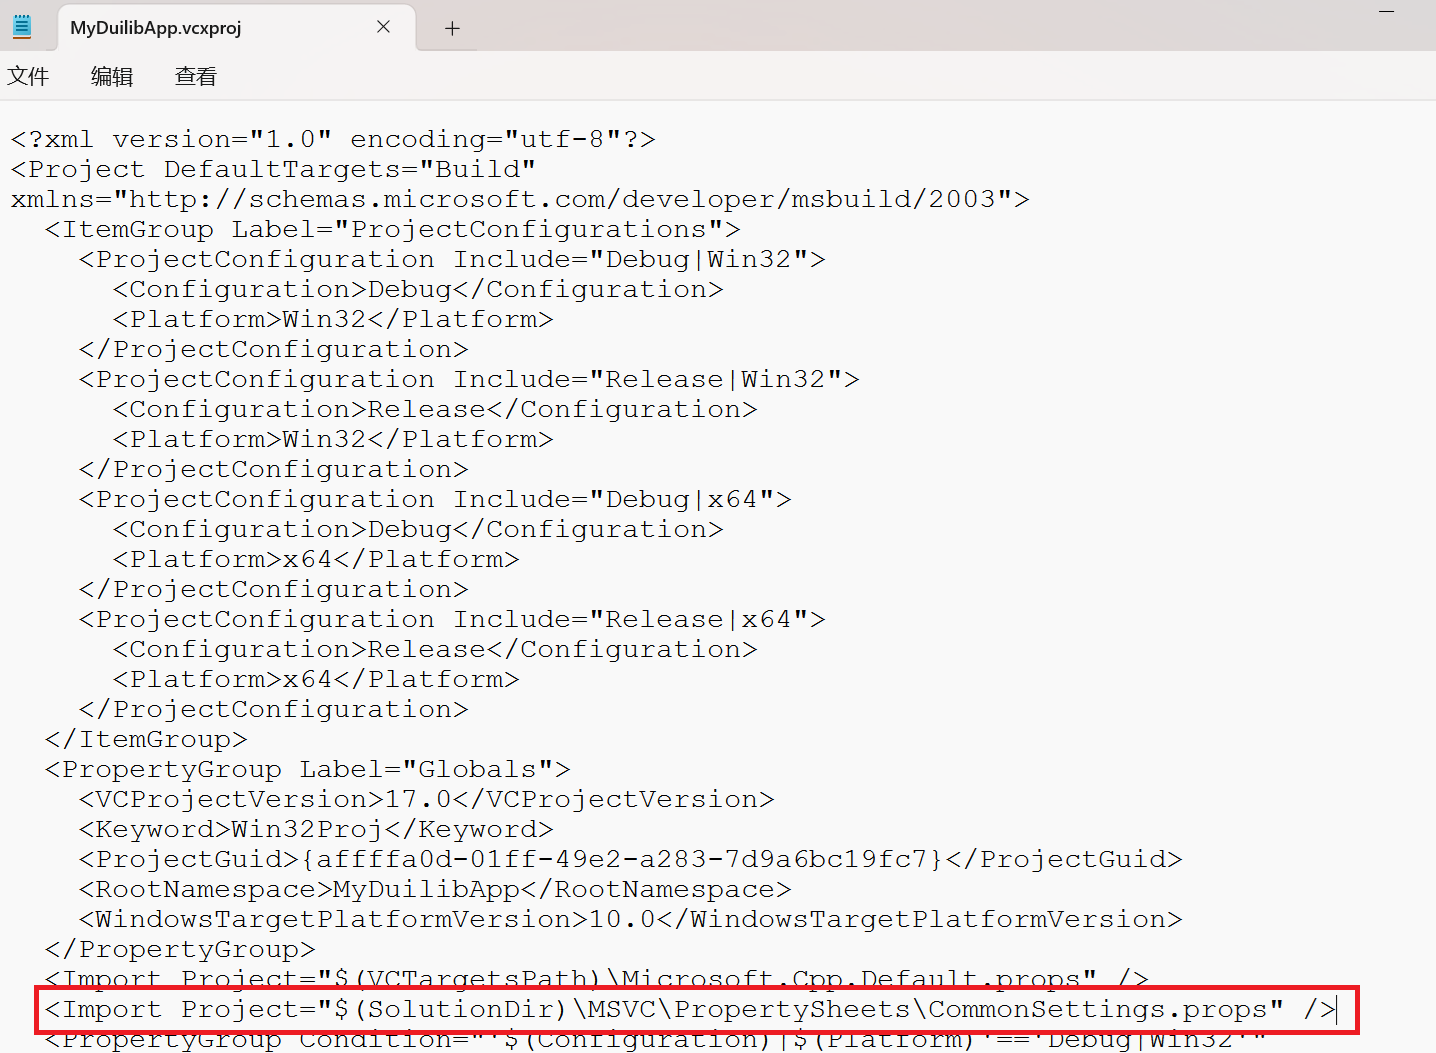
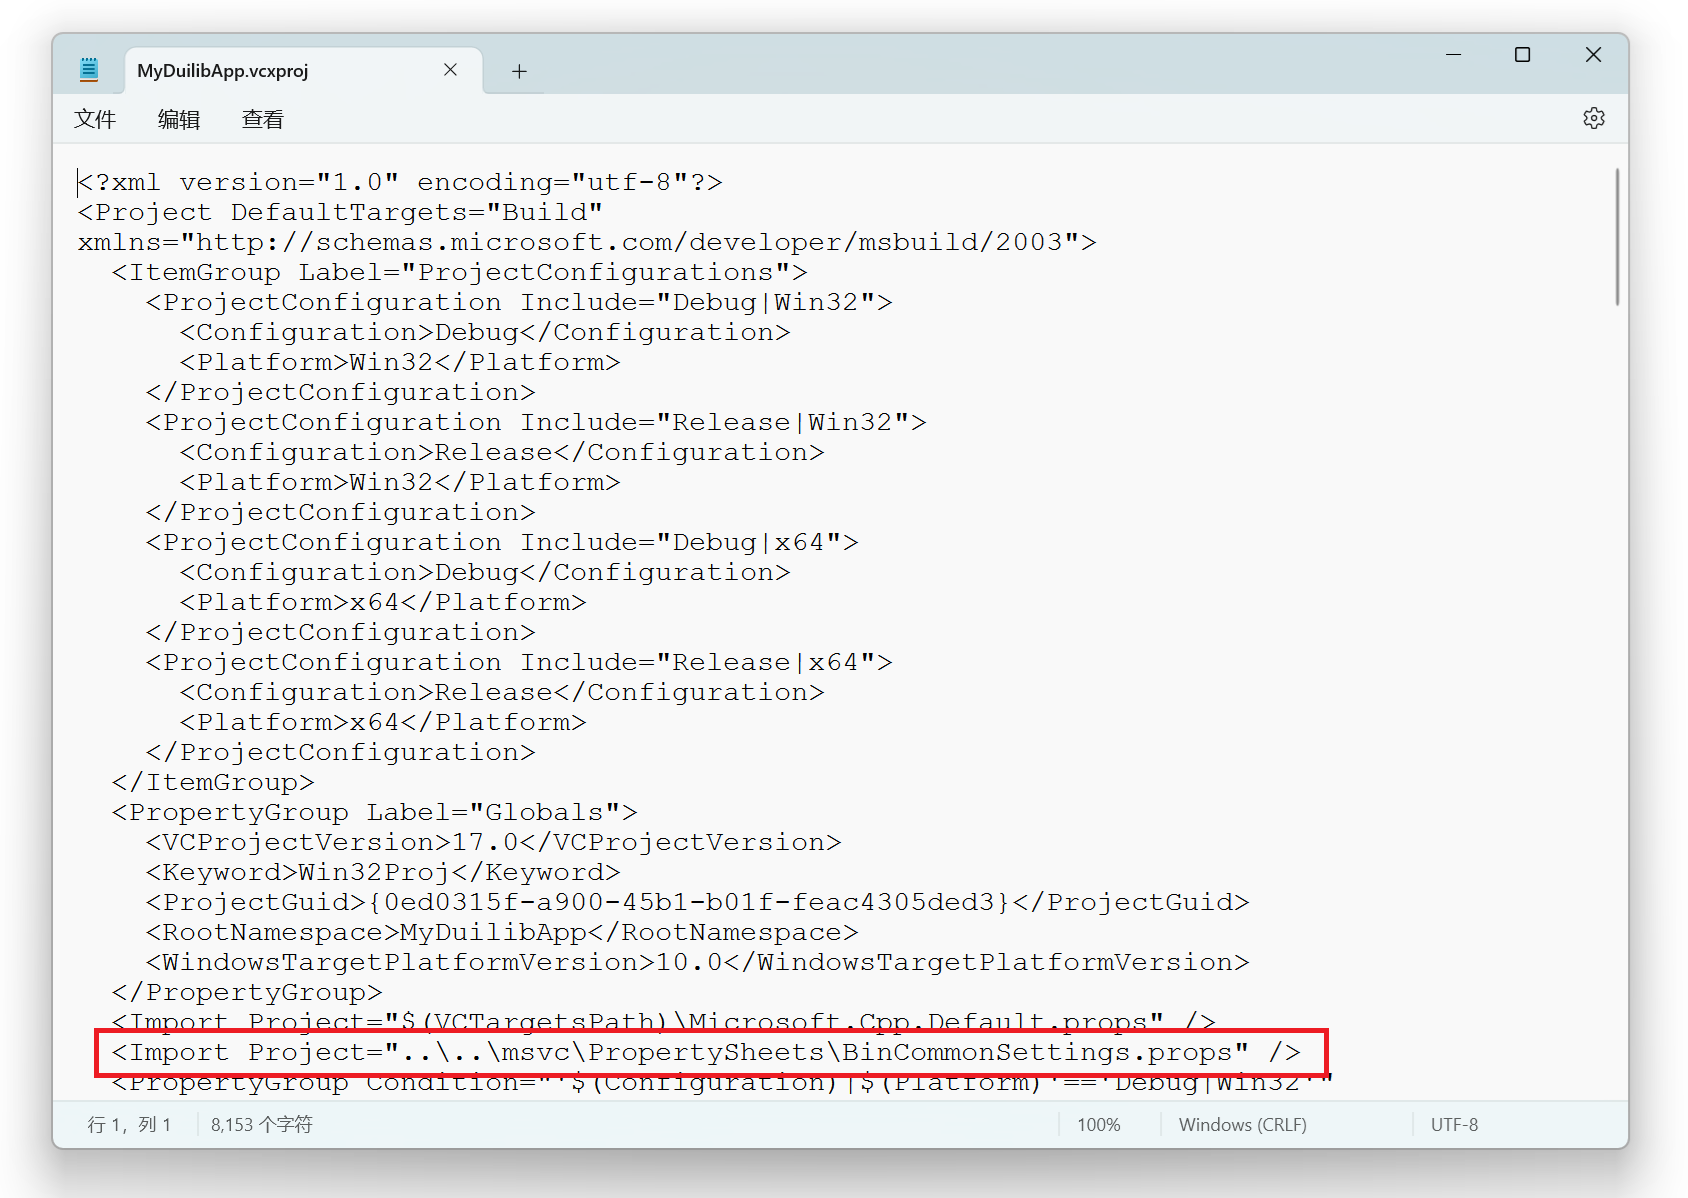
完善编译系统，完善项目的文档。

Changed region(s): [[0.0, 0.0, 1.0, 1.0]]

diff --git a/docs/Menu.md b/docs/Menu.md
@@ -7,24 +7,24 @@
 3. `settings_menu.xml`中的主要内容：
 ```xml
 <?xml version="1.0" encoding="utf-8"?>
-<Window>
-    <VListBox class="menu">
+<Window shadow_type="menu_round" shadow_attached="true" layered_window="true" >
+    <MenuListBox class="menu" name="main_menu">
         <!-- 一级菜单 -->
         <MenuItem class="menu_element" name="first" width="180">
-          <Button name="button_01" width="auto" height="auto" bkimage="menu_settings.png" valign="center" mouse="false"/>
-          <Label class="menu_text" text="一级菜单项 1" margin="30,0,0,0"/>
+          <Button name="button_01" width="auto" height="auto" bkimage="menu_settings.png" valign="center" mouse_enabled="false" keyboard_enabled="false"/>
+          <Label class="menu_text" text="一级菜单项 1" margin="30,0,0,0" mouse_enabled="false" keyboard_enabled="false"/>
         </MenuItem>
     
         <MenuItem class="menu_element" name="second" width="180">
-          <Button name="button_02" width="auto" height="auto" bkimage="menu_proxy.png" valign="center" mouse="false"/>
-          <Label class="menu_text" text="一级菜单项 2" margin="30,0,0,0"/>
+          <Button name="button_02" width="auto" height="auto" bkimage="menu_proxy.png" valign="center" mouse_enabled="false" keyboard_enabled="false"/>
+          <Label class="menu_text" text="一级菜单项 2" margin="30,0,0,0" mouse_enabled="false" keyboard_enabled="false"/>
         </MenuItem>
         
         <!-- 在菜单中插入普通控件，实现特定功能 -->
         <HBox class="menu_split_box" height="36">
-            <Label class="menu_text" text="音量" textpadding="0,0,6,0"/>
-            <Control width="auto" height="auto" bkimage="menu_speaker.png" valign="center"/>
-            <Slider class="slider_green" value="70" tooltiptext="ui::Slider"/>        
+            <Label class="menu_text" text="音量" textpadding="0,0,6,0" mouse_enabled="false" keyboard_enabled="false"/>
+            <Control width="auto" height="auto" bkimage="menu_speaker.png" valign="center" mouse_enabled="false" keyboard_enabled="false"/>
+            <Slider class="slider_green" value="70" tooltip_text="ui::Slider"/>
         </HBox>
         
         <!-- 菜单项之间的分割线 -->
@@ -33,38 +33,38 @@
         </Box>
         
         <MenuItem class="menu_element" name="third" width="180">
-            <Button name="button_03" width="auto" height="auto" bkimage="menu_logs.png" valign="center" mouse="false"/>
-            <Label class="menu_text" text="一级菜单项 3" margin="30,0,0,0"/>
+            <Button name="button_03" width="auto" height="auto" bkimage="menu_logs.png" valign="center" mouse_enabled="false" keyboard_enabled="false"/>
+            <Label class="menu_text" text="一级菜单项 3" margin="30,0,0,0" mouse_enabled="false" keyboard_enabled="false"/>
         </MenuItem>
         
         <MenuItem class="menu_element" name="fourth" width="180">
-            <Button name="button_04" width="auto" height="auto" bkimage="menu_tree.png" valign="center" mouse="false"/>
-            <Label class="menu_text" text="二级菜单" margin="30,0,0,0"/>
+            <Button name="button_04" width="auto" height="auto" bkimage="menu_tree.png" valign="center" mouse_enabled="false" keyboard_enabled="false"/>
+            <Label class="menu_text" text="二级菜单" margin="30,0,0,0" mouse_enabled="false" keyboard_enabled="false"/>
             <!-- 二级菜单：第一种支持的形式（保持旧版本的兼容性） -->
             <MenuItem class="menu_element" name="sub_menu0" width="180">
-                <Button name="button_44" width="auto" height="auto" bkimage="menu_tree.png" valign="center" mouse="false"/>
-                <Label class="menu_text" text="二级菜单项 0" margin="30,0,0,0"/>
+                <Button name="button_44" width="auto" height="auto" bkimage="menu_tree.png" valign="center" mouse_enabled="false" keyboard_enabled="false"/>
+                <Label class="menu_text" text="二级菜单项 0" margin="30,0,0,0" mouse_enabled="false" keyboard_enabled="false"/>
             </MenuItem>
             <!-- 二级菜单：第二种支持的形式（新增格式，方便在子菜单中添加通用控件） -->
             <SubMenu>
                 <MenuItem class="menu_element" name="sub_menu1" width="180">
-                    <Label class="menu_text" text="二级菜单项 1" margin="30,0,0,0"/>
+                    <Label class="menu_text" text="二级菜单项 1" margin="30,0,0,0" mouse_enabled="false" keyboard_enabled="false"/>
                 </MenuItem>
                 <MenuItem class="menu_element" name="sub_menu2" width="180">
-                    <Label class="menu_text" text="二级菜单项 2" margin="30,0,0,0"/>
+                    <Label class="menu_text" text="二级菜单项 2" margin="30,0,0,0" mouse_enabled="false" keyboard_enabled="false"/>
                 </MenuItem>
                 <MenuItem class="menu_element" name="sub_menu3" width="180">
-                    <Label class="menu_text" text="二级菜单项 3" margin="30,0,0,0"/>
+                    <Label class="menu_text" text="二级菜单项 3" margin="30,0,0,0" mouse_enabled="false" keyboard_enabled="false"/>
                 </MenuItem>
                 <MenuItem class="menu_element" name="sub_menu4" width="180">
-                    <Button name="button_05" width="auto" height="auto" bkimage="menu_tree.png" valign="center" mouse="false"/>
-                    <Label class="menu_text" text="三级菜单" margin="30,0,0,0"/>
+                    <Button name="button_05" width="auto" height="auto" bkimage="menu_tree.png" valign="center" mouse_enabled="false" keyboard_enabled="false"/>
+                    <Label class="menu_text" text="三级菜单" margin="30,0,0,0" mouse_enabled="false" keyboard_enabled="false"/>
                     <!-- 三级菜单 -->
                     <MenuItem class="menu_element" name="sub_sub_menu1" width="180">
-                        <Label class="menu_text" text="三级菜单项 1"/>
+                        <Label class="menu_text" text="三级菜单项 1" mouse_enabled="false" keyboard_enabled="false"/>
                     </MenuItem>
                     <MenuItem class="menu_element" name="sub_sub_menu2" width="180">
-                        <Label class="menu_text" text="三级菜单项 2"/>
+                        <Label class="menu_text" text="三级菜单项 2" mouse_enabled="false" keyboard_enabled="false"/>
                     </MenuItem>
                 </MenuItem>
             </SubMenu>
@@ -72,37 +72,37 @@
         
         <!-- 菜单项之间的分割线 -->
         <Box class="menu_split_box">
-            <Control class="menu_split_line" />
+            <Control class="menu_split_line" mouse_enabled="false" keyboard_enabled="false"/>
         </Box>
         
         <!-- 带勾选项的菜单项 -->
         <MenuItem class="menu_element" name="menu_check_01" width="180">
-            <CheckBox class="menu_checkbox" name="menu_checkbox_01" text="排序方式：递增" margin="0,5,0,10" selected="true" tooltiptext="ui::Checkbox"/>
+            <CheckBox class="menu_checkbox" name="menu_checkbox_01" text="排序方式：递增" margin="0,5,0,10" selected="true" tooltiptext="ui::Checkbox" mouse_enabled="false" keyboard_enabled="false"/>
         </MenuItem>
         <MenuItem class="menu_element" name="menu_check_02" width="180">
-            <CheckBox class="menu_checkbox" name="menu_checkbox_02" text="排序方式：递减" margin="0,5,0,10" selected="false" tooltiptext="ui::Checkbox"/>
+            <CheckBox class="menu_checkbox" name="menu_checkbox_02" text="排序方式：递减" margin="0,5,0,10" selected="false" tooltiptext="ui::Checkbox" mouse_enabled="false" keyboard_enabled="false"/>
         </MenuItem>
         
         <!-- 菜单项之间的分割线 -->
         <Box class="menu_split_box">
-            <Control class="menu_split_line" />
+            <Control class="menu_split_line" mouse_enabled="false" keyboard_enabled="false"/>
         </Box>
     
-        <MenuItem class="menu_element" name="about" width="180">
-            <Button name="button_06" width="auto" height="auto" bkimage="menu_about.png" valign="center" mouse="false"/>
-            <Label class="menu_text" text="关于" margin="30,0,0,0"/>
+        <MenuItem class="menu_element" name="about" width="auto">
+            <Button name="button_06" width="auto" height="auto" bkimage="menu_about.png" valign="center" mouse="false" mouse_enabled="false" keyboard_enabled="false"/>
+            <Label class="menu_text" text="关于" margin="30,0,0,0" mouse_enabled="false" keyboard_enabled="false"/>
         </MenuItem>
-  </VListBox>
+  </MenuListBox>
 </Window>
 ```
 
 4. `submenu.xml`中的主要内容：
 ```xml
 <?xml version="1.0" encoding="utf-8"?>
-<Window>
-  <VListBox class="menu" name="submenu">
+<Window shadow_type="menu_round" shadow_attached="true" layered_window="true">
+  <MenuListBox class="menu" name="submenu">
    
-  </VListBox>
+  </MenuListBox>
 </Window>
 ```
 `submenu.xml`是子菜单的配置文件，可以通过`Menu::SetSubMenuXml`接口修改：
@@ -116,36 +116,42 @@ void SetSubMenuXml(const std::wstring& submenuXml, const std::wstring& submenuNo
 5. `examples/controls`示例程序中显示菜单的代码片段    
 显示菜单，并且在二级菜单中，添加子菜单项：
 ```cpp
-void ControlForm::ShowPopupMenu(const ui::UiPoint& point)
+void ControlForm::ShowPopupMenu(const ui::UiPoint& point, ui::Control* pRelatedControl)
 {
-    ui::Menu* menu = new ui::Menu(GetHWND());//需要设置父窗口，否在菜单弹出的时候，程序状态栏编程非激活状态
-    std::wstring xml(L"settings_menu.xml");
+    ui::Menu* menu = new ui::Menu(this, pRelatedControl);//需要设置父窗口，否在菜单弹出的时候，程序状态栏编程非激活状态
+    menu->SetSkinFolder(GetResourcePath().ToString());
+    DString xml(_T("menu/settings_menu.xml"));
     menu->ShowMenu(xml, point);
 
     //在二级菜单中，添加子菜单项
-    ui::MenuItem* menu_fourth = static_cast<ui::MenuItem*>(menu->FindControl(L"fourth"));
-	if (menu_fourth != nullptr) {
-		ui::MenuItem* menu_item = new ui::MenuItem;
-		menu_item->SetText(L"Dynamically created");
-		menu_item->SetClass(L"menu_element");
-		menu_item->SetFixedWidth(ui::UiFixedInt(180), true, true);
-		menu_item->SetFontId(L"system_14");
-		menu_item->SetTextPadding({ 20, 0, 20, 0 });
-		menu_fourth->AddSubMenuItemAt(menu_item, 1);//添加后，资源由菜单统一管理
-	}
+    ui::MenuItem* menu_fourth = static_cast<ui::MenuItem*>(menu->FindControl(_T("fourth")));
+    if (menu_fourth != nullptr) {
+        ui::MenuItem* menu_item = new ui::MenuItem(menu);
+        menu_item->SetText(_T("Dynamically created"));
+        menu_item->SetClass(_T("menu_element"));
+        menu_item->SetFixedWidth(ui::UiFixedInt(180), true, true);
+        menu_item->SetFontId(_T("system_14"));
+        menu_item->SetTextPadding({ 20, 0, 20, 0 }, true);
+        menu_fourth->AddSubMenuItemAt(menu_item, 1);//添加后，资源由菜单统一管理
+    }
 ```
 
 添加菜单项的关联响应函数：
 ```cpp
     /* About menu */
-    ui::MenuItem* menu_about = static_cast<ui::MenuItem*>(menu->FindControl(L"about"));
+    ui::MenuItem* menu_about = static_cast<ui::MenuItem*>(menu->FindControl(_T("about")));
     if (menu_about != nullptr) {
-    	menu_about->AttachClick([this](const ui::EventArgs& args) {
-    		AboutForm* about_form = new AboutForm();
-    		about_form->CreateWnd(GetHWND(), AboutForm::kClassName, WS_OVERLAPPEDWINDOW & ~WS_MAXIMIZEBOX, WS_EX_LAYERED);
-    		about_form->CenterWindow();
-    		about_form->ShowModalFake(GetHWND());
-    		return true;
-    		});
+        menu_about->AttachClick([this](const ui::EventArgs& args) {
+            AboutForm* about_form = new AboutForm();
+            ui::WindowCreateParam createParam;
+            createParam.m_dwStyle = ui::kWS_POPUP;
+            createParam.m_dwExStyle = ui::kWS_EX_LAYERED;
+            createParam.m_windowTitle = _T("AboutForm");
+            createParam.m_bCenterWindow = true;
+            about_form->CreateWnd(this, createParam);
+            about_form->ShowModalFake();
+            return true;
+            });
+    }
 }
 ```

diff --git a/duilib/third_party/README.md b/duilib/third_party/README.md
@@ -7,17 +7,17 @@
 | 名称        | 更新日期   | 版本号|是否修改| 获取URL | 备注 |
 | :---        | :---       | :---  |:---    | :---    |:---  |
 | apng        | 2025-03-10 |v1.6.47|无 |https://sourceforge.net/projects/libpng-apng/ |通过libpng + libpng-1.6.47-apng.patch来支持的 |
-| libpng      | 2025-03-10 |v1.6.47|有 |https://sourceforge.net/projects/libpng/|参见后续说明<br>对CMakeLists.txt有修改|
+| libpng      | 2025-03-10 |v1.6.47|有 |https://sourceforge.net/projects/libpng/|参见后续说明，对以下文件有修改：<br>CMakeLists.txt<br>projects\vstudio\libpng\libpng.vcxproj|
 | cximage     | 2024-05-30 |v7.02  |无 |https://sourceforge.net/projects/cximage/|2011-02-11后已停止更新|
 | libwebp     | 2025-03-11 |v1.5.0 |无 |https://github.com/webmproject/libwebp|tag/v1.5.0，使用了src目录下的子目录，覆盖后，删除不必要的文件即可（基本方法：新旧版本源码比较，然后看文件增删改，再同步，项目只使用了图片解码功能，没有用到图片编码功能，目前没有用到config.h文件）|
 | stb_image   | 2025-03-11 |v2.30  |无 |https://github.com/nothings/stb|无修改，直接取master的代码|
 | svg         | 2025-03-11 |无（2024-12-20）     |有 |https://github.com/memononen/nanosvg| 代码更新到2024-12-20，修改参见提交记录|
-| zlib        | 2025-03-11 |v1.3.1（2024-01-22） |有 |https://github.com/madler/zlib | 修改了zlib.h 和 CMakeLists.txt，并将zconf.h重命名为zconf_msvc.h|
+| zlib        | 2025-03-11 |v1.3.1（2024-01-22） |有 |https://github.com/madler/zlib | 修改了zlib.h 和 CMakeLists.txt，并将zconf.h重命名为zconf_msvc.h<br>如果文件名或个数有变更，需要修改VC工程|
 | xml         | 2025-03-11 |v1.15（2025-01-11）  |无 |https://github.com/zeux/pugixml| pugixml|
 | convert_utf | 2025-03-11 |v20.1.0|无 |https://releases.llvm.org      | 下载最新版的源码包，解压后找到这两个文件  |
 | udis86      | 2025-04-11 |v1.7.2 |有 |https://sourceforge.net/projects/udis86/      |  udint.h 有修改|
-| libcef_win_109|2025-03-10|cef_binary 109.1.18+gf1c41e4<br>chromium-109.0.5414.120（2023-02-03）|无 |x64版本：https://cef-builds.spotifycdn.com/index.html#windows64:109 <br> Win32版本：https://cef-builds.spotifycdn.com/index.html#windows32:109| x64版本：https://cef-builds.spotifycdn.com/cef_binary_109.1.18%2Bgf1c41e4%2Bchromium-109.0.5414.120_windows64.tar.bz2 <br> Win32版本：https://cef-builds.spotifycdn.com/cef_binary_109.1.18%2Bgf1c41e4%2Bchromium-109.0.5414.120_windows32.tar.bz2|
-| libcef_win    |2025-03-10|cef_binary_133.4.8+g99a2ab1<br>chromium-133.0.6943.142（2023-03-08）|无 |x64版本：https://cef-builds.spotifycdn.com/index.html#windows64:133 <br> Win32版本：https://cef-builds.spotifycdn.com/index.html#windows32:133| x64版本：https://cef-builds.spotifycdn.com/cef_binary_133.4.8%2Bg99a2ab1%2Bchromium-133.0.6943.142_windows64.tar.bz2 <br> Win32版本：https://cef-builds.spotifycdn.com/cef_binary_133.4.8%2Bg99a2ab1%2Bchromium-133.0.6943.142_windows32.tar.bz2|
+| libcef_win_109|2025-03-10|cef_binary 109.1.18+gf1c41e4<br>chromium-109.0.5414.120（2023-02-03）|无 |x64版本：https://cef-builds.spotifycdn.com/index.html#windows64:109 <br> Win32版本：https://cef-builds.spotifycdn.com/index.html#windows32:109| x64版本：https://cef-builds.spotifycdn.com/cef_binary_109.1.18%2Bgf1c41e4%2Bchromium-109.0.5414.120_windows64.tar.bz2 <br> Win32版本：https://cef-builds.spotifycdn.com/cef_binary_109.1.18%2Bgf1c41e4%2Bchromium-109.0.5414.120_windows32.tar.bz2<br>libcef_win_109\libcef_dll_wrapper_109.vcxproj有修改|
+| libcef_win    |2025-03-10|cef_binary_133.4.8+g99a2ab1<br>chromium-133.0.6943.142（2023-03-08）|无 |x64版本：https://cef-builds.spotifycdn.com/index.html#windows64:133 <br> Win32版本：https://cef-builds.spotifycdn.com/index.html#windows32:133| x64版本：https://cef-builds.spotifycdn.com/cef_binary_133.4.8%2Bg99a2ab1%2Bchromium-133.0.6943.142_windows64.tar.bz2 <br> Win32版本：https://cef-builds.spotifycdn.com/cef_binary_133.4.8%2Bg99a2ab1%2Bchromium-133.0.6943.142_windows32.tar.bz2<br>libcef_win\libcef_dll_wrapper.vcxproj有修改|
 | libcef_linux  |2025-03-10|cef_binary_133.4.8+g99a2ab1<br>chromium-133.0.6943.142（2023-03-08）|无 |x64版本：https://cef-builds.spotifycdn.com/index.html#linux64:133| x64版本：https://cef-builds.spotifycdn.com/cef_binary_133.4.8%2Bg99a2ab1%2Bchromium-133.0.6943.142_linux64.tar.bz2|
 
 ## libpng 库更新说明
@@ -25,7 +25,7 @@
 2. 下载压缩包后，解压，进入解压后的目录，按照INSTALL的说明，使用VS的命令行模式，运行：`nmake -f scripts\makefile.vcwin32`，会生成`pnglibconf.h`文件
 3. 然后整个目录（去除.lib和.obj文件），覆盖`duilib\third_party\libpng`里面的所有文件，里面的文件与下载的压缩包保持一致，多删少补，新增加的文件要添加到git库
 3. 注意检查`pnglibconf.h`文件，保持必要的同步
-4. 注意`libpng\projects\vstudio\libpng\libpng.vcxproj`和`libpng\projects\vstudio\zlib\zlib.vcxproj`工程文件不轻易更新，除非有文件变化时需要同步（可以用新版和旧版的官方包，在两个目录中分别运行`nmake -f scripts\makefile.vcwin32`，然后比较生成的vcxproj是否有变化，然后决定是否要修改）
+4. 注意`libpng\projects\vstudio\libpng\libpng.vcxproj`工程文件不轻易更新，除非有文件变化时需要同步（可以用新版和旧版的官方包，在两个目录中分别运行`nmake -f scripts\makefile.vcwin32`，然后比较生成的vcxproj是否有变化，然后决定是否要修改）
 5. 对代码打支持APNG的补丁：
  - 补丁下载地址：https://sourceforge.net/projects/libpng-apng/ ，如果找不到对应的补丁，可用搜索引擎搜`libpng PNG_APNG_SUPPORTED`，尝试查找
  - 如果找不到对应版本的补丁，可以考虑暂缓更新libpng

diff --git a/docs/Getting-Started.md b/docs/Getting-Started.md
@@ -16,7 +16,7 @@ git clone https://github.com/rhett-lee/nim_duilib
 git clone https://github.com/rhett-lee/skia_compile
 ```
 
-3. 编译skia源码：按照skia_compile目录中的[Windows下编译skia.md文档](../../skia_compile/Windows下编译skia.md)中的方法，编译出skia相关的lib文件    
+3. 编译skia源码：按照skia_compile项目文档[Windows下编译skia.md](../../skia_compile/Windows下编译skia.md)中的方法，编译出skia相关的lib文件    
    注意事项：skia源码应该与nim_duilib源码位于相同的目录下。    
    注意事项：skia源码编译的时候，应使用LLVM编译，程序运行比较流畅；如果使用VS编译，运行速度很慢，界面比较卡。    
    检查方法：编译成功以后，在skia/out的子目录下，有生成skia.lib等lib文件。
@@ -28,8 +28,7 @@ git clone https://github.com/rhett-lee/skia_compile
 
 ## 创建基础工程
 
-使用 Visual Studio 打开项目目录中 `duilib.sln` 解决方案，
-解决方案中包含了一些简单示例作为参考，你可以参考示例或新建一个 Windows 桌面应用，来一步一步完成第一个 duilib 窗口。
+使用 Visual Studio 打开项目目录中 `duilib.sln` 解决方案，新建一个 Windows 桌面应用，来一步一步完成第一个基于 duilib 界面库的程序。
 
 1. 在`duilib.sln` 解决方案中新建一个 Windows 桌面程序（VS2022，程序类型为：Windows Desktop Application）。
 假定程序名为：`MyDuilibApp`，源码放在`examples2`子目录中。    
@@ -365,6 +364,12 @@ void MainThread::OnInit()
 这样一个简单的带有最小化、最大化、还原和关闭按钮、全屏按钮，具有阴影效果和一行文字提示的窗口就创建出来了，你可以编译运行以下代码看一看窗口效果。
 
 <img src="./Images/MyDuilibApp.png"/>
+    
+## 在程序中使用libCEF
+可以参考相关的文档[CEF.md](CEF.md)
+
+## 关于Visual Studio的工程配置
+项目中关于Visual Studio的工程配置是使用属性文件，保存在以下目录：`nim_duilib\msvc\PropertySheets`
     
 ## 如何设置项目中使用的源代码文件编码为UTF-8格式
 1. 在项目根目录创建一个格式配置文件，文件名为：.editorconfig
